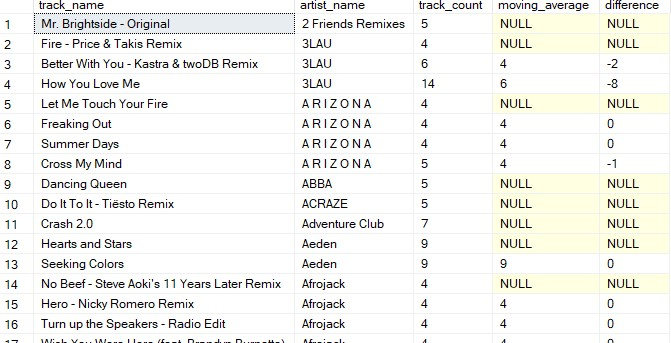
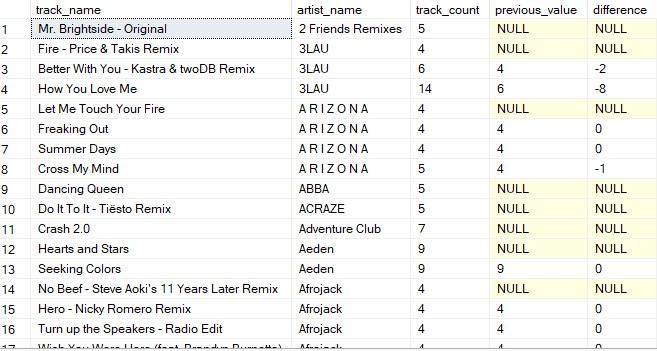
add stats functions and images and new html file

diff --git a/Tutorials/SQL/WindowFunctions.html b/Tutorials/SQL/WindowFunctions.html
@@ -224,6 +224,89 @@
         </p>
         <img style="margin-bottom:40px;width:550px;" src="Images/lagvalueex.jpg" class="item2">
     </div>
+    <h4 style="margin-left:99px;font-size:25px;">LEAD</h4>
+    <p style="text-align:justify;padding-left:100px;padding-right:100px;font-size:16px;line-height:25px;">
+        Predictive analysis is used by companies to predict future outcomes such as sales figures, employee turnover, and customer retention. The LEAD window function allows you to compare the current row with the value N rows below.
+    </p>
+    <div class="grid-container">
+        <h4 style="font-size:22px;color:black;" class="item1"><b>Example</b></h4>
+        <h4 style="font-size:22px;color:black;" class="item2"><b>Output</b></h4>
+    </div>
+        <div class="grid-container">
+    <p style="text-align:justify;padding-left:0px;padding-right:50px;font-size:16px;line-height:25px;color:black;font-weight:lighter;margin-left:0px;" class="item1">
+        &ensp;&ensp;&ensp;-- get next values<br>
+        &ensp;&ensp;&ensp;WITH lead_value AS (<br>
+        &ensp;&ensp;&ensp;SELECT track_name, artist_name, track_count,<br> 
+        &ensp;&ensp;&ensp;<b>LEAD(track_count, 1) OVER(PARTITION BY artist_name<br>
+        &ensp;&ensp;&ensp;ORDER BY track_count)</b><br>
+        &ensp;&ensp;&ensp;next_value<br>
+        &ensp;&ensp;&ensp;FROM song_popularity<br>
+        &ensp;&ensp;&ensp;WHERE track_count > 3)<br><br>
+        &ensp;&ensp;&ensp;-- create column for comparison<br>
+        &ensp;&ensp;&ensp;SELECT *, (next_value - track_count) difference<br>
+        &ensp;&ensp;&ensp;FROM lead_value<br>
+        &ensp;&ensp;&ensp;ORDER BY artist_name, track_count
+    </p>
+    <img style="margin-bottom:40px;width:550px;" src="Images/leadvalueex.jpg" class="item2">
+</div>
+    <h4 style="margin-left:99px;font-size:25px;">FIRST_VALUE</h4>
+    <p style="text-align:justify;padding-left:100px;padding-right:100px;font-size:16px;line-height:25px;">
+        The main limitation with the LAG and LEAD functions are that partitions are rarely the same length. To help solve this problem, SQL provides the FIRST_VALUE window function to compare the current row with the first row in the partition.
+    </p>
+    <div class="grid-container">
+        <h4 style="font-size:22px;color:black;" class="item1"><b>Example</b></h4>
+        <h4 style="font-size:22px;color:black;" class="item2"><b>Output</b></h4>
+            </div>
+            <div class="grid-container">
+        <p style="text-align:justify;padding-left:0px;padding-right:50px;font-size:16px;line-height:25px;color:black;font-weight:lighter;margin-left:0px;" class="item1">
+            &ensp;&ensp;&ensp;-- get first values<br>
+            &ensp;&ensp;&ensp;WITH first_values AS (<br>
+            &ensp;&ensp;&ensp;SELECT track_name, artist_name, track_count,<br> 
+            &ensp;&ensp;&ensp;<b>FIRST_VALUE(track_count) OVER(PARTITION BY<br>
+            &ensp;&ensp;&ensp;artist_name ORDER BY track_count)</b><br>
+            &ensp;&ensp;&ensp;first_value<br>
+            &ensp;&ensp;&ensp;FROM song_popularity<br>
+            &ensp;&ensp;&ensp;WHERE track_count > 3)<br><br>
+            &ensp;&ensp;&ensp;-- create column for comparison<br>
+            &ensp;&ensp;&ensp;SELECT *, (first_value - track_count) difference<br>
+            &ensp;&ensp;&ensp;FROM first_values<br>
+            &ensp;&ensp;&ensp;ORDER BY artist_name, track_count
+        </p>
+        <img style="margin-bottom:40px;width:530px;" src="Images/firstvalueex.jpg" class="item2">
+        </div>
+        <h4 style="margin-left:99px;font-size:25px;">LAST_VALUE</h4>
+        <p style="text-align:justify;padding-left:100px;padding-right:100px;font-size:16px;line-height:25px;">
+            The LEAD version of the FIRST_VALUE window function is the LAST_VALUE window function. This allows you to comapre the current row with the last row in the partition. The only difference between the FIRST_VALUE and LAST_VALUE window functions is that the LAST_VALUE window function requires a range parameter. These allow you to include items within a portion of the partition or the entire partition. These parameters include the following:
+            <ul style="margin-left:110px;">
+                <li style="line-height:25px;"><b>RANGE UNBOUNDED PRECEDING:</b> This uses all rows between the top of the partition and the current row.</li>
+                <li style="line-height:25px;"><b>RANGE N PRECEDING:</b> This uses the number of rows specified above the current row and the current row.</li>
+                <li style="line-height:25px;"><b>RANGE CURRENT ROW:</b> This partitions every individual row.</li>
+                <li style="line-height:25px;"><b>RANGE N FOLLOWING:</b> This specifies the range between the current row and n number of rows following.</li>
+                <li style="line-height:25px;"><b>RANGE UNBOUNDED FOLLOWING:</b> This specifies the partition as the current row and the bottom of the partition.</li>
+            </ul>
+        </p>
+        <div class="grid-container">
+            <h4 style="font-size:22px;color:black;" class="item1"><b>Example</b></h4>
+            <h4 style="font-size:22px;color:black;" class="item2"><b>Output</b></h4>
+                </div>
+                <div class="grid-container">
+            <p style="text-align:justify;padding-left:0px;padding-right:50px;font-size:16px;line-height:25px;color:black;font-weight:lighter;margin-left:0px;" class="item1">
+                &ensp;&ensp;&ensp;-- get last values<br>
+                &ensp;&ensp;&ensp;WITH last_values AS (<br>
+                &ensp;&ensp;&ensp;SELECT track_name, artist_name, track_count,<br> 
+                &ensp;&ensp;&ensp;<b>LAST_VALUE(track_count) OVER(PARTITION BY<br>
+                &ensp;&ensp;&ensp;artist_name ORDER BY track_count<br>
+                &ensp;&ensp;&ensp;RANGE BETWEEN UNBOUNDED PRECEDING AND<br>
+                &ensp;&ensp;&ensp;UNBOUNDED FOLLOWING) last_value<br></b>
+                &ensp;&ensp;&ensp;FROM song_popularity<br>
+                &ensp;&ensp;&ensp;WHERE track_count > 3)<br><br>
+                &ensp;&ensp;&ensp;-- create column for comparison<br>
+                &ensp;&ensp;&ensp;SELECT *, (last_value - track_count) difference<br>
+                &ensp;&ensp;&ensp;FROM last_values<br>
+                &ensp;&ensp;&ensp;ORDER BY artist_name, track_count
+            </p>
+            <img style="margin-bottom:40px;width:530px;" src="Images/lastvalueex.jpg" class="item2">
+            </div>
         </section>
         </div>
 
@@ -231,31 +314,68 @@
             <section>
                 <h3 style="margin-left:99px;font-size:30px;"><b>STATISTICAL FUNCTIONS</b></h3>
                 <p style="text-align:justify;padding-left:100px;padding-right:100px;font-size:16px;line-height:25px;">
+                    Although SQL isn;t the best tool to use for conducting in-depth statistical analysis, it's still good to know what it can do. SQL provides a few statistical window functions for viewing the correlation and distribution of different values within a given partition.
+                </p>
+                <h4 style="margin-left:99px;font-size:25px;">NTILE</h4>
+                <p style="text-align:justify;padding-left:100px;padding-right:100px;font-size:16px;line-height:25px;">
+                    When conducting statistical analyses, generating sample data can be a great way to conduct experiments to gain accurate insights. To help with this process, the NTILE window function allows you to evenly split your data into different "buckets" or groups of data to compare each group against each other:
                 </p>
                 <div class="grid-container">
                     <h4 style="font-size:22px;color:black;" class="item1"><b>Example</b></h4>
                     <h4 style="font-size:22px;color:black;" class="item2"><b>Output</b></h4>
                 </div>
                     <div class="grid-container">
-                <p style="text-align:justify;padding-left:0px;padding-right:50px;font-size:16px;line-height:25px;color:black;font-weight:lighter;" class="item1">
-                &ensp;&ensp;&ensp;SELECT state, month, SUM(sales) runningTotal<br>
-                &ensp;&ensp;&ensp;FROM sales<br>
-                &ensp;&ensp;&ensp;GROUP BY <b>GROUPING SETS</b> ((state, month), (state), (month)) <br>
-                &ensp;&ensp;&ensp;ORDER BY state, CASE month<br>
-                &ensp;&ensp;&ensp;&ensp;&ensp;&ensp;&ensp;&ensp;&ensp;&ensp;&ensp;&ensp;&ensp;&ensp;&ensp;&ensp;&ensp;&ensp;
-                                                  WHEN 'January' THEN 1<br>
-                &ensp;&ensp;&ensp;&ensp;&ensp;&ensp;&ensp;&ensp;&ensp;&ensp;&ensp;&ensp;&ensp;&ensp;&ensp;&ensp;&ensp;&ensp;
-                                                  WHEN 'February' THEN 2<br>
-                &ensp;&ensp;&ensp;&ensp;&ensp;&ensp;&ensp;&ensp;&ensp;&ensp;&ensp;&ensp;&ensp;&ensp;&ensp;&ensp;&ensp;&ensp;
-                                                  WHEN 'March' THEN 3<br>
-                &ensp;&ensp;&ensp;&ensp;&ensp;&ensp;&ensp;&ensp;&ensp;&ensp;&ensp;&ensp;&ensp;&ensp;&ensp;&ensp;&ensp;&ensp;
-                                                  ELSE 4<br>
-                &ensp;&ensp;&ensp;&ensp;&ensp;&ensp;&ensp;&ensp;&ensp;&ensp;&ensp;&ensp;&ensp;&ensp;&ensp;&ensp;&ensp;&ensp;
-                                                  END, levelOfDetail
-                                                </p>
-                
-                <img style="margin-bottom:20px;" src="Images/groupingsetsex.jpg" class="item2">
+                <p style="text-align:justify;padding-left:0px;padding-right:50px;font-size:16px;line-height:25px;color:black;font-weight:lighter;margin-left:0px;" class="item1">
+                    &ensp;&ensp;&ensp;SELECT track_name, artist_name, track_count,<br> 
+                    &ensp;&ensp;&ensp;<b>NTILE(6) OVER(PARTITION BY artist_name<br>
+                    &ensp;&ensp;&ensp;ORDER BY track_count) sample_group</b><br>
+                    &ensp;&ensp;&ensp;FROM song_popularity<br>
+                    &ensp;&ensp;&ensp;WHERE track_count > 6 AND<br>
+                    &ensp;&ensp;&ensp;artist_name IN('Avicii', 'Calvin Harris',<br>
+                    &ensp;&ensp;&ensp;&ensp;&ensp;&ensp;&ensp;&ensp;&ensp;&ensp;&ensp;&ensp;&ensp;&ensp;&ensp;'David Guetta', 'Don Diablo');
+                </p>
+                <img style="margin-bottom:40px;width:550px;" src="Images/ntileex.jpg" class="item2">
             </div>
+            <h4 style="margin-left:99px;font-size:25px;">CUME_DIST</h4>
+            <p style="text-align:justify;padding-left:100px;padding-right:100px;font-size:16px;line-height:25px;">
+                If you are unfamiliar with statistics, the <b><i>cumulative distribution</i></b> is a measure that calculate the percentage of a whole accumulating values take up. Although this may not be the clearest example, the example below shows a good use case:
+            </p>
+            <div class="grid-container">
+                <h4 style="font-size:22px;color:black;" class="item1"><b>Example</b></h4>
+                <h4 style="font-size:22px;color:black;" class="item2"><b>Output</b></h4>
+            </div>
+                <div class="grid-container">
+            <p style="text-align:justify;padding-left:0px;padding-right:50px;font-size:16px;line-height:25px;color:black;font-weight:lighter;margin-left:0px;" class="item1">
+                &ensp;&ensp;&ensp;SELECT track_name, artist_name, track_count,<br> 
+                &ensp;&ensp;&ensp;<b>CUME_DIST() OVER(PARTITION BY artist_name<br>
+                &ensp;&ensp;&ensp;ORDER BY track_count) cume_dist</b><br>
+                &ensp;&ensp;&ensp;FROM song_popularity<br>
+                &ensp;&ensp;&ensp;WHERE track_count > 6 AND<br>
+                &ensp;&ensp;&ensp;artist_name IN('Avicii', 'Calvin Harris',<br>
+                &ensp;&ensp;&ensp;&ensp;&ensp;&ensp;&ensp;&ensp;&ensp;&ensp;&ensp;&ensp;&ensp;&ensp;&ensp;'David Guetta', 'Don Diablo');
+            </p>
+            <img style="margin-bottom:40px;width:550px;" src="Images/cumedistex.jpg" class="item2">
+        </div>
+        <h4 style="margin-left:99px;font-size:25px;">PERCENT_RANK</h4>
+        <p style="text-align:justify;padding-left:100px;padding-right:100px;font-size:16px;line-height:25px;">
+            The PERCENT_RANK is very similar to the CUME_DIST function, though it works with percentiles rather than cumulative values. The value outputted with this function shows the value's position in the distribution of the partition.
+        </p>
+        <div class="grid-container">
+            <h4 style="font-size:22px;color:black;" class="item1"><b>Example</b></h4>
+            <h4 style="font-size:22px;color:black;" class="item2"><b>Output</b></h4>
+        </div>
+            <div class="grid-container">
+        <p style="text-align:justify;padding-left:0px;padding-right:50px;font-size:16px;line-height:25px;color:black;font-weight:lighter;margin-left:0px;" class="item1">
+            &ensp;&ensp;&ensp;SELECT track_name, artist_name, track_count,<br> 
+            &ensp;&ensp;&ensp;<b>PERCENT_RANK() OVER(PARTITION BY artist_name<br>
+            &ensp;&ensp;&ensp;ORDER BY track_count) percentile</b><br>
+            &ensp;&ensp;&ensp;FROM song_popularity<br>
+            &ensp;&ensp;&ensp;WHERE track_count > 6 AND<br>
+            &ensp;&ensp;&ensp;artist_name IN('Avicii', 'Calvin Harris',<br>
+            &ensp;&ensp;&ensp;&ensp;&ensp;&ensp;&ensp;&ensp;&ensp;&ensp;&ensp;&ensp;&ensp;&ensp;&ensp;'David Guetta', 'Don Diablo');
+        </p>
+        <img style="margin-bottom:40px;width:550px;" src="Images/percentileex.jpg" class="item2">
+    </div>
                 </section>
                 </div>
 
@@ -263,15 +383,15 @@
             <section>
                 <h3 style="margin-left:99px;font-size:30px;"><b>CONCLUSION</b></h3>
                 <p style="text-align:justify;padding-left:100px;padding-right:100px;font-size:16px;line-height:25px;">
-                Data analysis in SQL can be very powerful, yet challenging to comprehend. As you may have noticed in the examples above, it can be difficult to see the difference between the different groups as far as which group in contributing the most or least. To help with this it's criticial to become proficient in basic Data Visualization techniques. Before continuing in this learning series, I would HIGHLY recomnmend checking how either the <a href="TableauTutorials.html">Tableau</a> or <a href="PowerBITutorials.html">Power BI</a> tutorials.</p>
+                Window functions are widely used for comparison and ranking techniques. It's critical to understand when and why the use of these types of functions to help you in your role as a Data Analyst. As mentioned before, SQL isn't the best tool for statistical analyses, for those I would HIGHLY recommend taking a look at the   <a href="/Tutorials/RTutorials.html">R</a> tutorials.</p>
                 </section>
                 </div>
 
                                                         <!-- Next Steps -->
     <div class="wrapperTutorials" style="width:1200px;">
         <section>
-        <h3 style="margin-left:99px;font-size:22px;"><b><u>Next Steps</u></b></h3><p style="text-align:justify;padding-left:100px;padding-right:100px;font-size:16px;line-height:25px;">Querying techniques in SQL supercede everything. Now that we know how to perform some basic analytical techniques, let's look at how to create analytical tables::<br>
-            <a href="GroupByExtensions.html" style="text-decoration:none;color:black;font-weight:bolder;">- Group By Extensions Tutorial  (Click here)</a>
+        <h3 style="margin-left:99px;font-size:22px;"><b><u>Next Steps</u></b></h3><p style="text-align:justify;padding-left:100px;padding-right:100px;font-size:16px;line-height:25px;">Window functions allow you to take an iterative approach to querying. Another key aspect of Data Analysis is the quality of your data. We'll learn more about this in the next tutorial:<br>
+            <a href="DataCleaning.html" style="text-decoration:none;color:black;font-weight:bolder;">- Data Cleaning Tutorial  (Click here)</a>
         </p>
         </section>
         </div>
